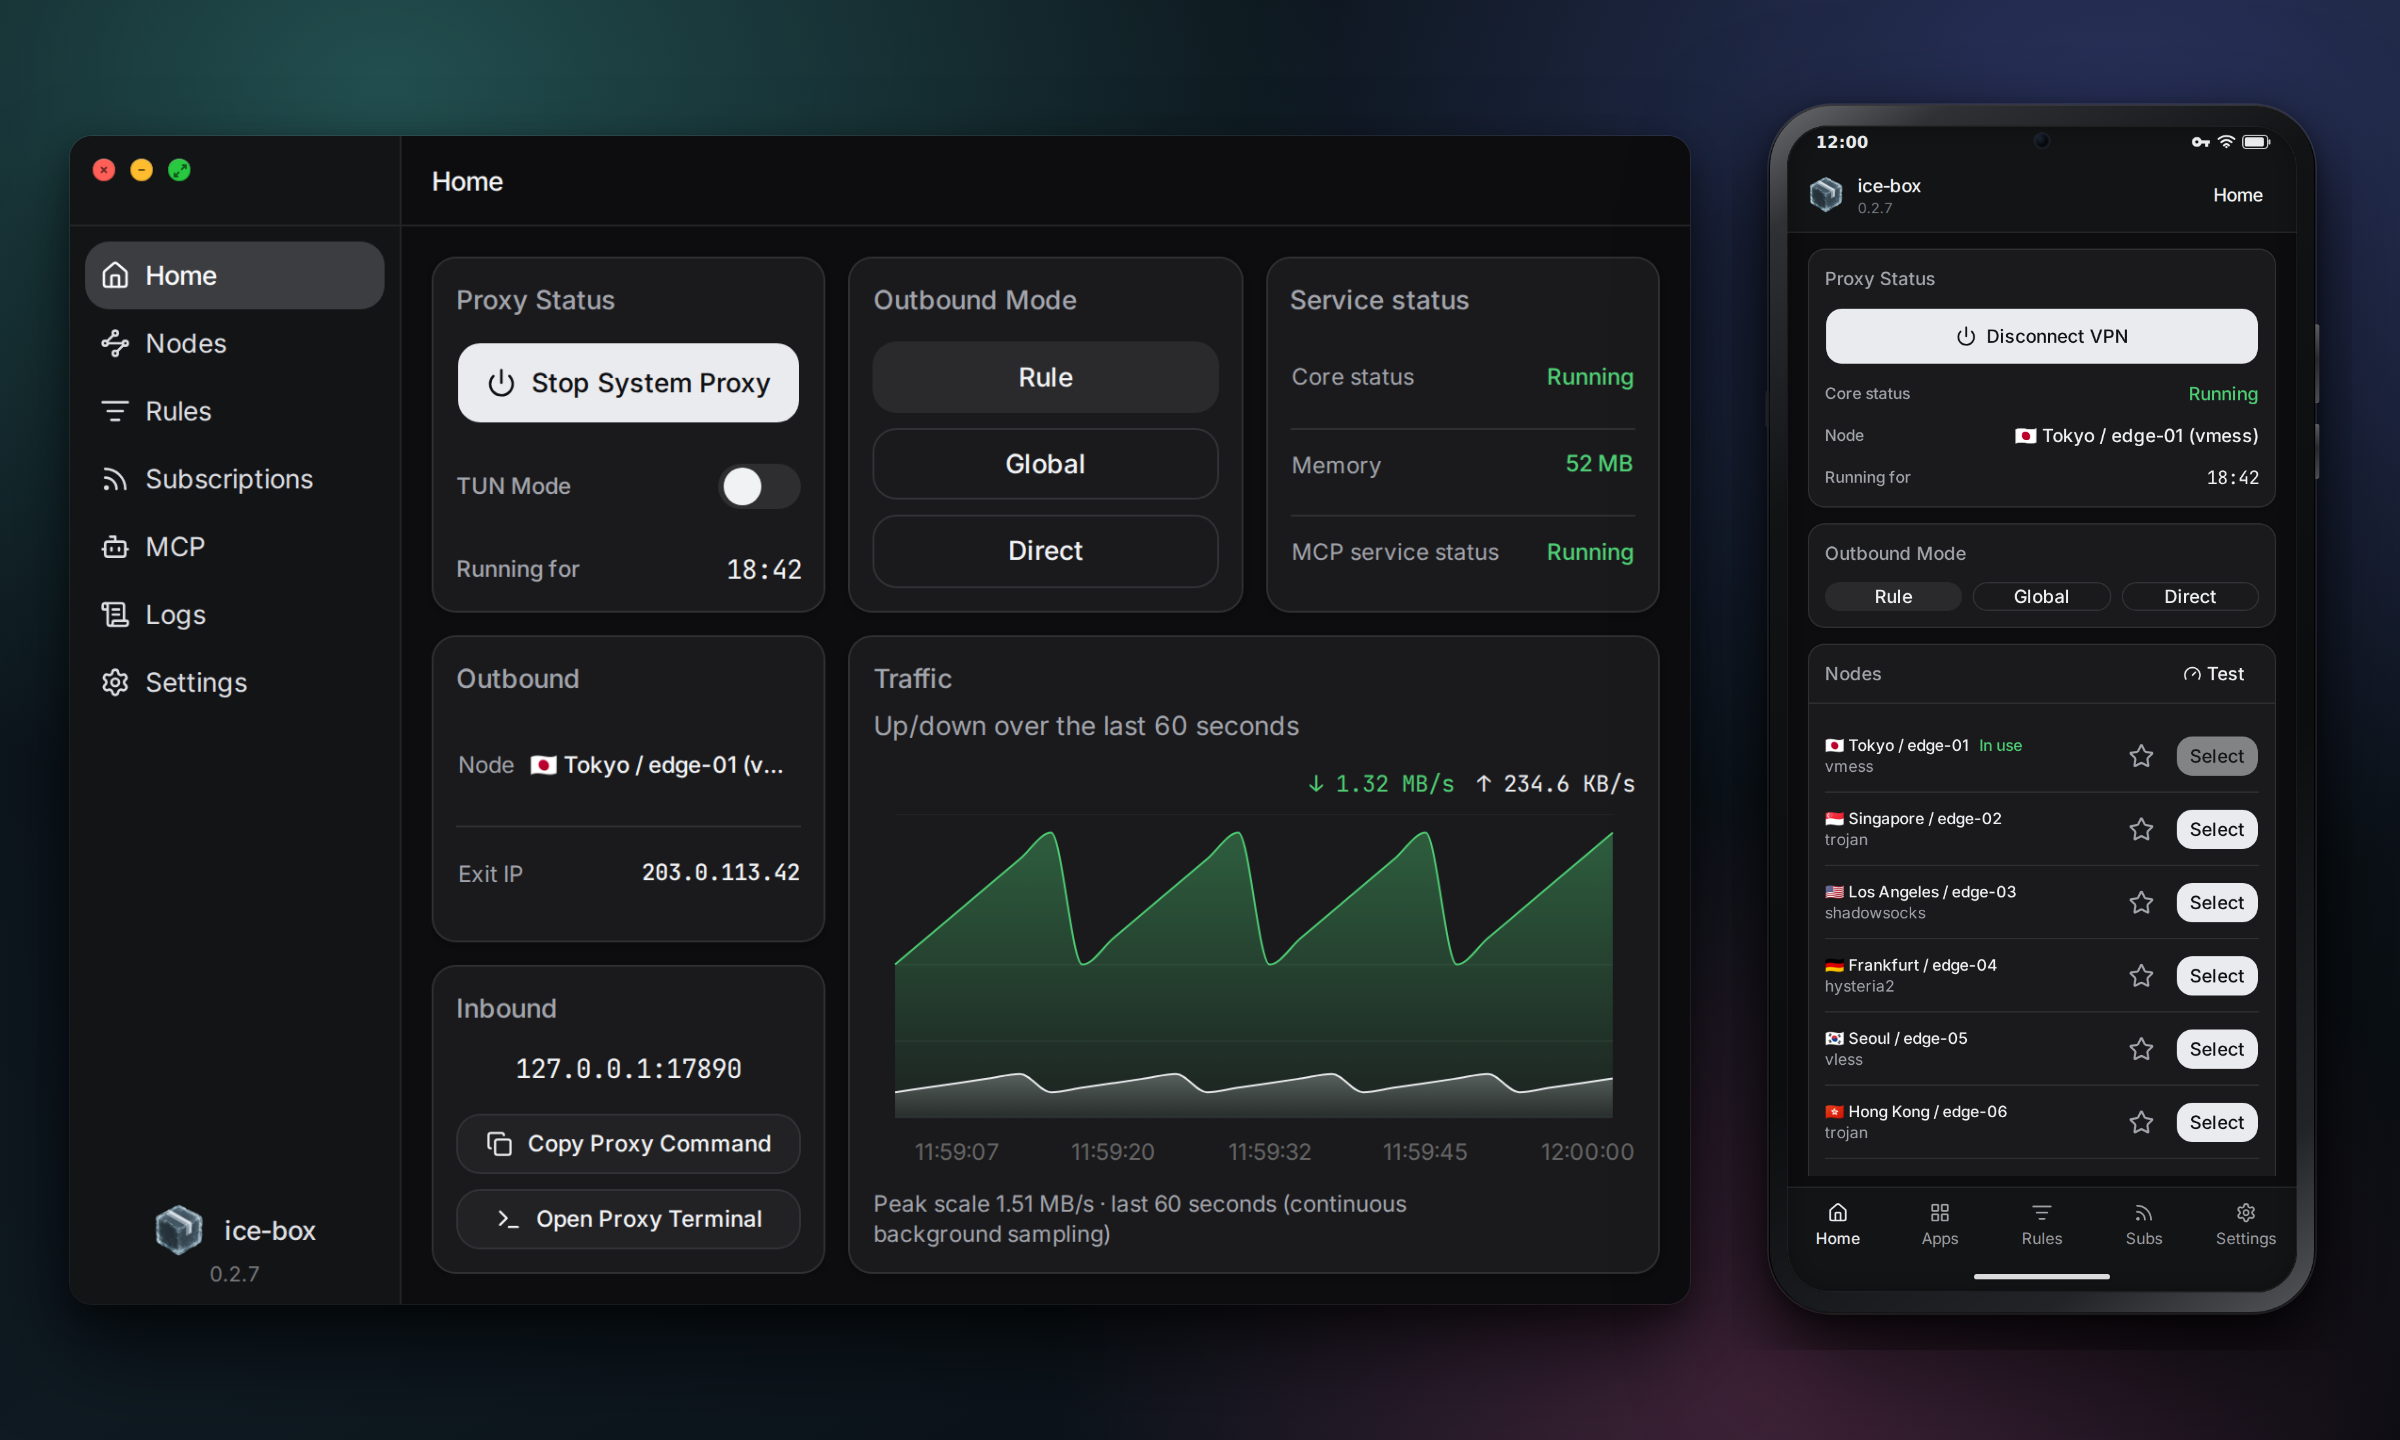
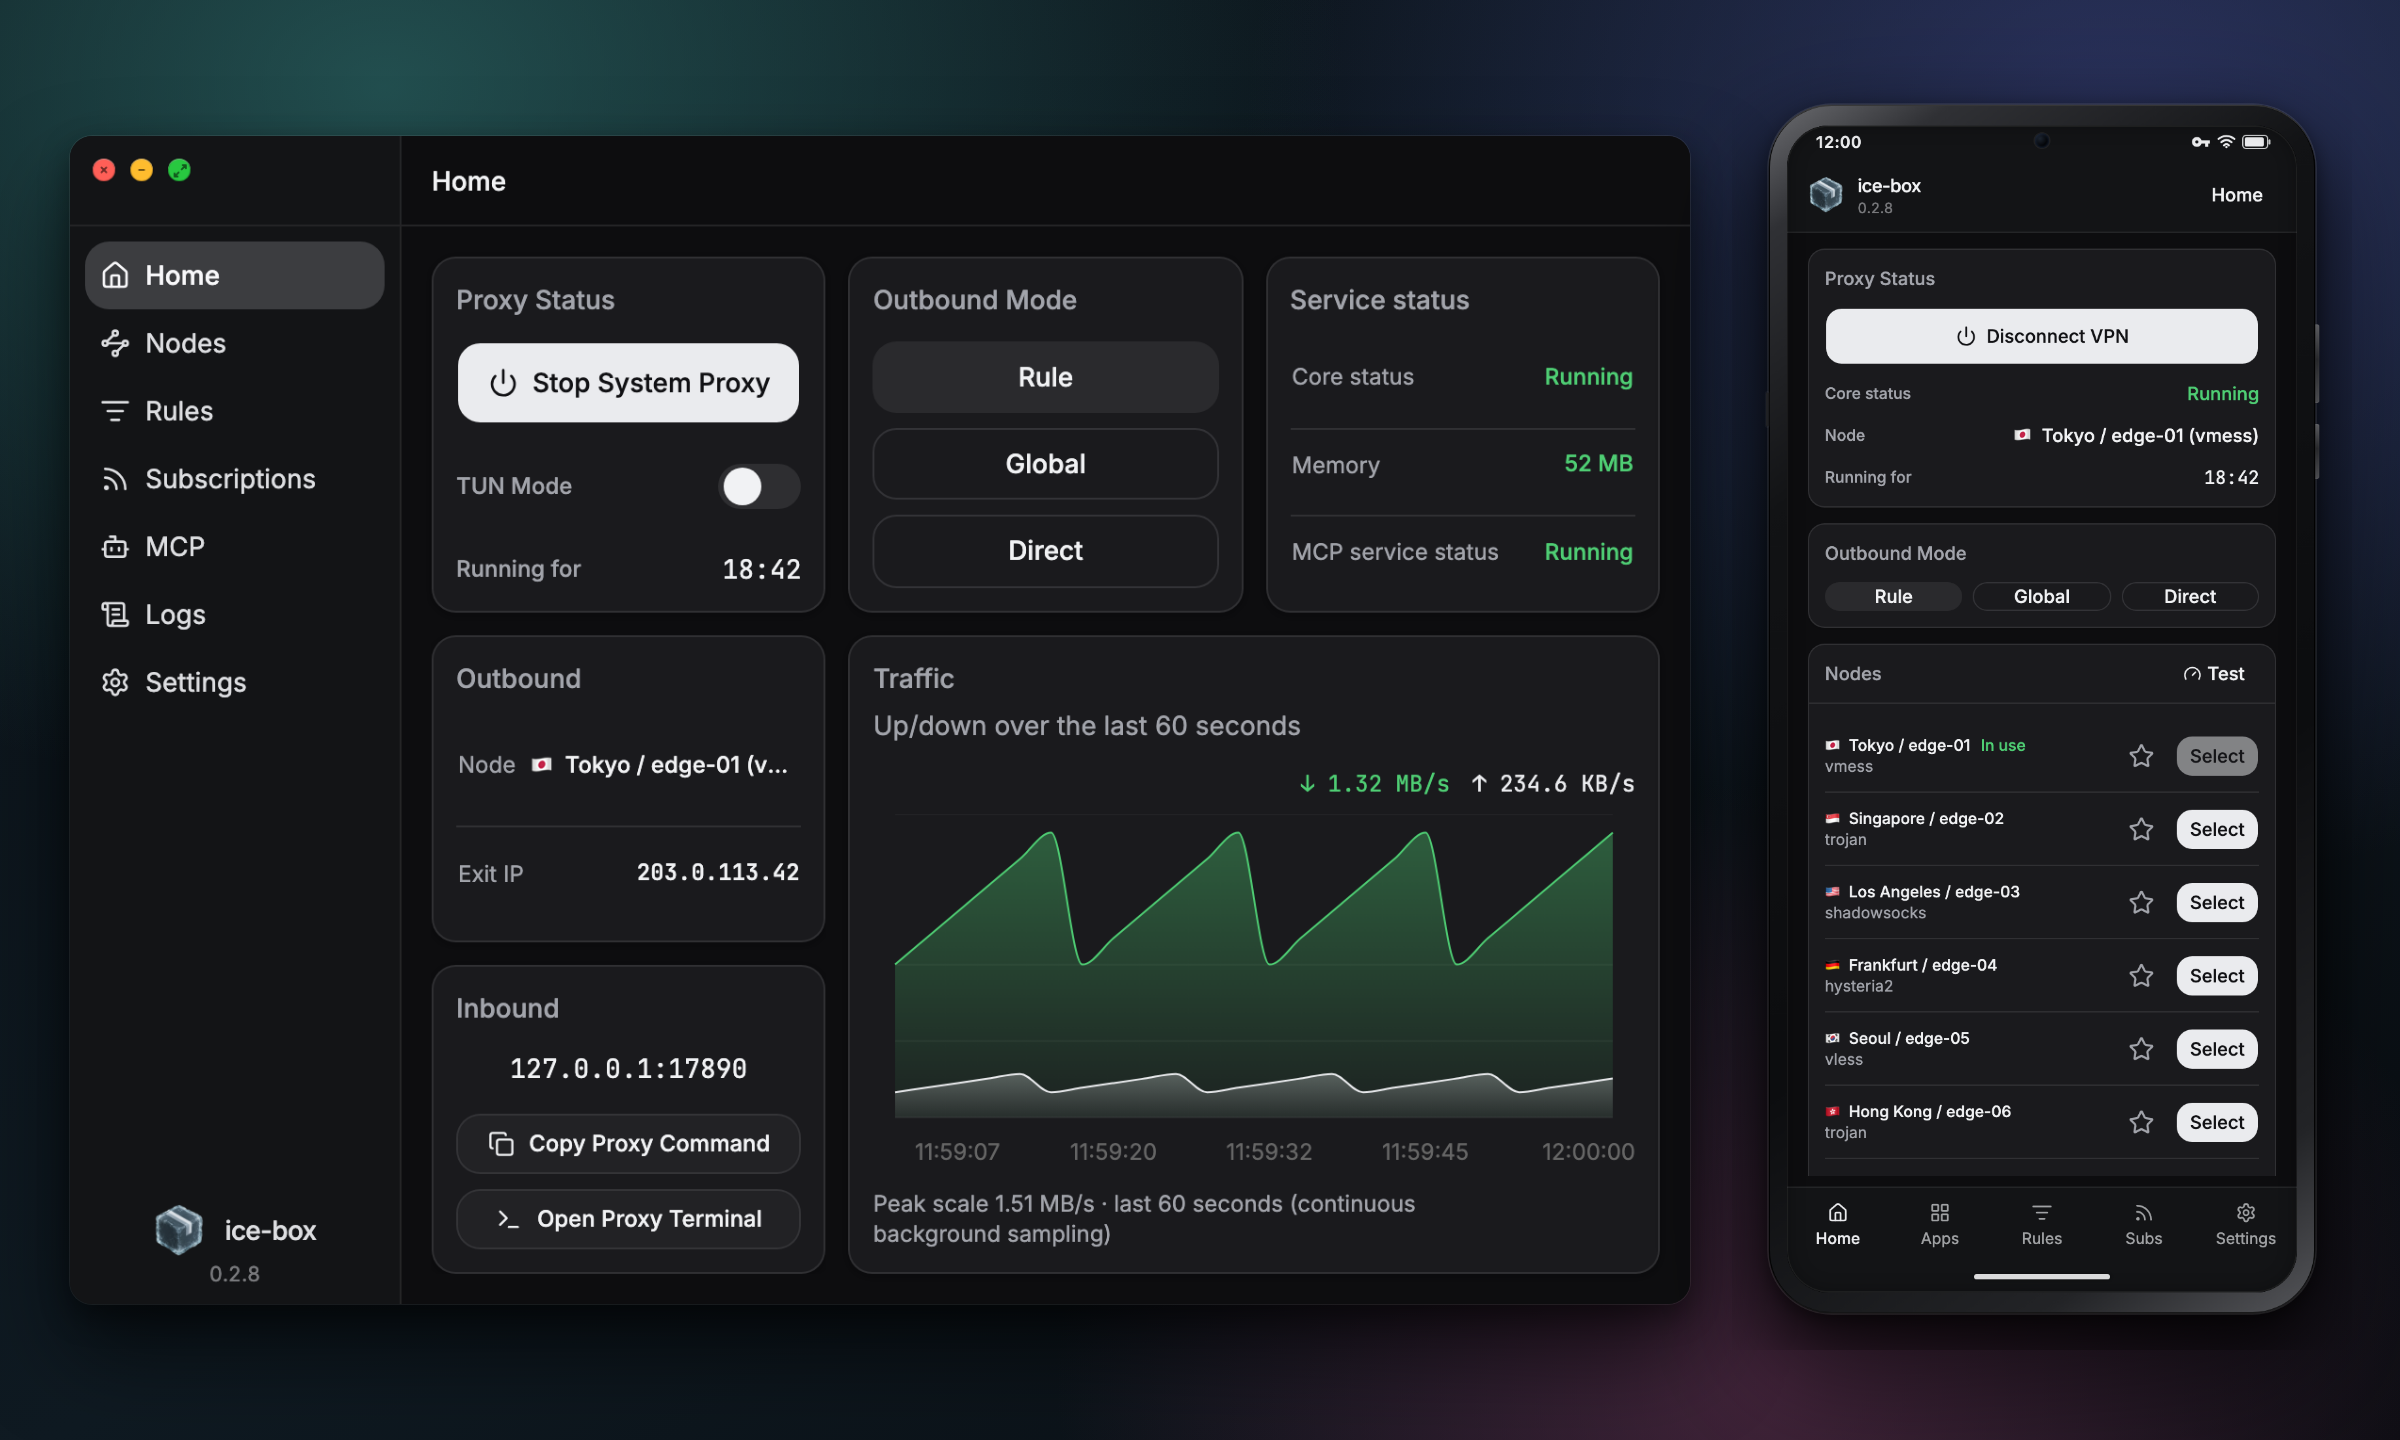
release: v0.2.8

diff --git a/CHANGELOG.md b/CHANGELOG.md
@@ -5,6 +5,8 @@ The format is based on [Keep a Changelog](https://keepachangelog.com/en/1.1.0/).
 
 ## [Unreleased]
 
+## [0.2.8] - 2026-11-03
+
 ### Changed
 
 - Development: `scripts/gate-local.sh` now runs only the checks that match the
